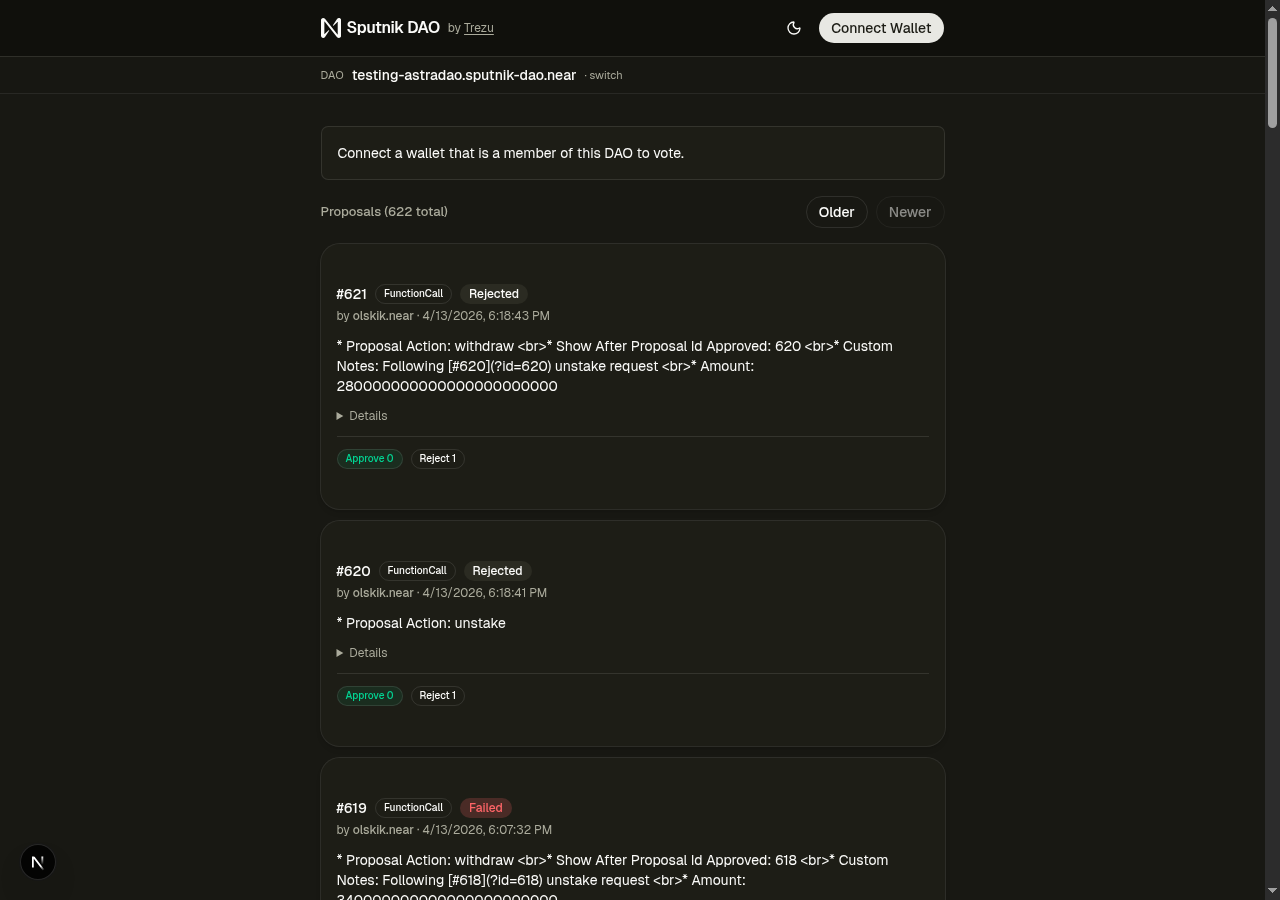
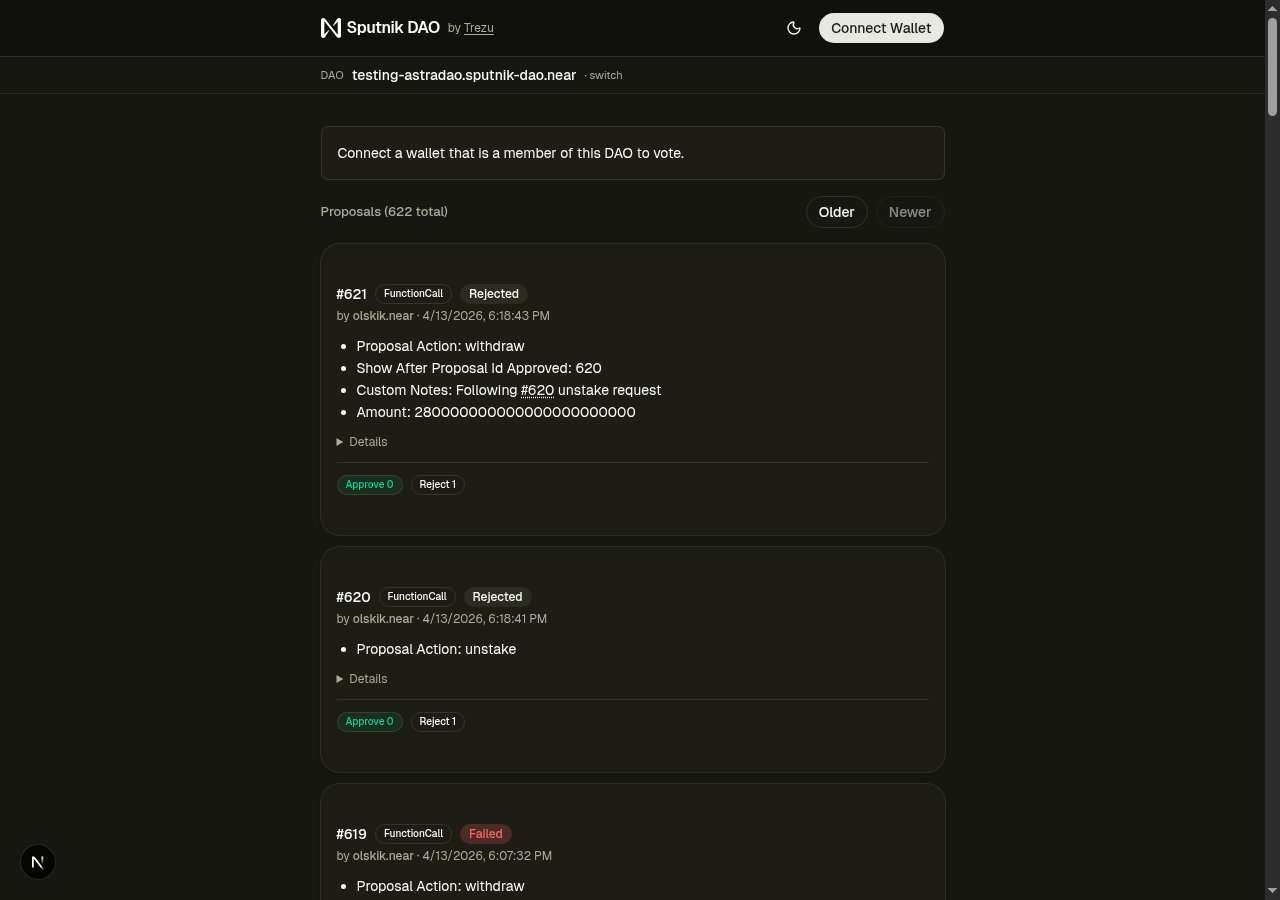
docs: reposition README as reference implementation, add dark-mode screenshots (#1)
Frame this repo as a developer-facing reference for the Sputnik DAO contract
(raw ProposalKind access, every view method exposed). Point day-to-day
treasury operators at trezu.org for multichain asset management, and direct
DAO creation to trezu.app/app/new since this UI intentionally doesn't ship
a factory-deployment flow.

Refresh all four README screenshots and add dark-mode companions:
- landing, dashboard, proposal detail, and new-proposal modal
- lead the README with the dark variants (better fit for the olive palette)

diff --git a/README.md b/README.md
@@ -1,37 +1,54 @@
 # Sputnik DAO
 
-A web app for viewing, creating, and voting on proposals in any [Sputnik DAO](https://github.com/near-daos/sputnik-dao-contract) on NEAR Protocol — directly from the browser.
+A reference-level web UI for viewing, creating, and voting on proposals in any [Sputnik DAO](https://github.com/near-daos/sputnik-dao-contract) on NEAR Protocol — directly from the browser.
 
 - 🌐 **Hosted at:** https://sputnik-dao.trezu.org
 - 📦 **Source:** https://github.com/near-daos/sputnik-dao-ui
 - ⛓ **Contract reference:** https://github.com/near-daos/sputnik-dao-contract
 
-![Sputnik DAO — landing page](./docs/landing.png)
+![Sputnik DAO — landing page, dark mode](./docs/landing-dark.png)
 
-*Landing page: enter any DAO contract account id (e.g. `testing-astradao.sputnik-dao.near`) to open its dashboard. Connect a NEAR wallet that is a member of the DAO to create and vote on proposals.*
+*Landing page: enter any DAO contract account id (e.g. `testing-astradao.sputnik-dao.near`) to open its dashboard. Connect a NEAR wallet that is a member of the DAO to create and vote on proposals. A header toggle cycles Light → Dark → System.*
+
+## Who this is for
+
+**Sputnik DAO UI is a reference implementation.** It exposes every `ProposalKind` and the raw policy / config JSON so developers and power users can drive the contract with full fidelity — no abstractions, no hidden defaults, no feature filtering. If you're debugging a proposal, prototyping a new kind, or auditing an existing DAO, this is the right tool.
+
+**If you want a polished product instead**, use [**trezu.org**](https://trezu.org). It builds on Sputnik DAO multisig to deliver a superior experience for managing **multichain** crypto assets — native UX for transfers, staking, bounties, and roles, without you ever having to touch a `ProposalKind` JSON envelope. It's the recommended path for day-to-day treasury operations.
+
+**To create a new Sputnik DAO**, use [**trezu.app/app/new**](https://trezu.app/app/new). This repo intentionally does not ship a DAO-creation flow; factory deployment, initial policy, and role seeding are concerns better handled with a guided setup.
+
+| | Sputnik DAO UI (this repo) | [Trezu](https://trezu.org) |
+| --- | --- | --- |
+| **Audience** | Developers, auditors, power users | Treasury operators, DAO members |
+| **Scope** | Raw Sputnik DAO contract access | Multichain asset management on top of Sputnik DAO |
+| **Proposal creation** | Every `ProposalKind`, free-form JSON | Guided flows for common operations |
+| **Create a new DAO** | Not supported — use [trezu.app/app/new](https://trezu.app/app/new) | ✓ |
+| **Cross-chain assets** | — | ✓ |
 
 ## Features
 
 - **Browse proposals** from any Sputnik DAO v2/v3 contract, newest first, with status badges, vote tallies, and inline `ProposalKind` JSON.
-- **Proposal detail page** at `/<daoId>/<proposalId>` with the full proposer account, pretty-printed kind, and a per-voter table.
+- **Proposal detail page** at `/<daoId>/<proposalId>` with the full proposer account, pretty-printed kind, per-voter table, and markdown-rendered descriptions with in-app `?id=<n>` cross-references.
 - **Create a proposal** with a template picker covering every `ProposalKind` — `Vote`, `Transfer`, `FunctionCall`, `AddMemberToRole`, `RemoveMemberFromRole`, `ChangeConfig`, `ChangePolicy` (prefilled from current on-chain policy), `ChangePolicyAddOrUpdateRole`, `ChangePolicyRemoveRole`, `ChangePolicyUpdateDefaultVotePolicy`, `ChangePolicyUpdateParameters`, `SetStakingContract`, `UpgradeSelf`, `UpgradeRemote`, `AddBounty`, `BountyDone`, `FactoryInfoUpdate`. The proposal bond is read from `get_policy` and attached exactly.
 - **Vote Approve / Reject** on any in-progress proposal. The UI refetches after every transaction so tallies, status, and your vote record update without a page reload.
 - **Role-aware UX** — reads `get_policy` and resolves the connected wallet's membership, so only members see the New Proposal button and only members eligible to vote on a given proposal see Approve/Reject.
-- **Dark mode** — system-preference by default, with a header toggle that cycles Light → Dark → System.
-
-![Sputnik DAO — dashboard](./docs/dao.png)
-
-*Dashboard for `testing-astradao.sputnik-dao.near` showing recent proposals, status badges, and vote tallies. Sign in as a DAO member to vote or to reveal the New Proposal button.*
+- **Membership discovery** — once your wallet is connected, the landing page and the DAO switcher list every Sputnik DAO you're a member of (via the public [api.trezu.app](https://api.trezu.app) directory).
+- **Dark mode** — system-preference by default, with a header toggle.
 
 ![Sputnik DAO — dashboard, dark mode](./docs/dao-dark.png)
 
-*Same dashboard in dark mode.*
+*Dashboard for `testing-astradao.sputnik-dao.near` showing recent proposals, status badges, and vote tallies. Sign in as a DAO member to vote or to reveal the New Proposal button.*
 
-![Sputnik DAO — proposal detail](./docs/proposal.png)
+![Sputnik DAO — dashboard, light mode](./docs/dao.png)
 
-*Proposal detail page with the full `ProposalKind` JSON and per-voter breakdown.*
+*Same dashboard in light mode.*
 
-![Sputnik DAO — new proposal modal with ChangePolicy prefilled](./docs/new-proposal.png)
+![Sputnik DAO — proposal detail, dark mode](./docs/proposal-dark.png)
+
+*Proposal detail page with markdown-rendered description, the full `ProposalKind` JSON, and per-voter breakdown.*
+
+![Sputnik DAO — new proposal modal with ChangePolicy prefilled, dark mode](./docs/new-proposal-dark.png)
 
 *New Proposal modal. The Template select covers every Sputnik proposal kind; `ChangePolicy` prefills with the current policy wrapped in `{"Current": ...}` so you only edit what you want to change.*
 
@@ -49,6 +66,7 @@ Mainnet is the only network currently configured (see `src/app/providers.tsx`). 
 ## Usage
 
 1. Open https://sputnik-dao.trezu.org.
+    - Don't have a DAO yet? Create one at [trezu.app/app/new](https://trezu.app/app/new).
 2. Enter the DAO's contract account id (e.g. `yurtur.sputnik-dao.near`) and press **Open DAO**.
 3. The dashboard lists every proposal, newest first. Click a proposal's `#ID` to see its detail page.
 4. Click **Connect Wallet** and sign in with any NEAR-compatible wallet.
